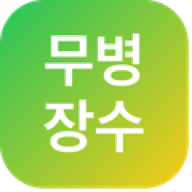
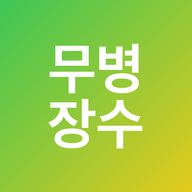
Updates

Changed region(s): [[0.2188, 0.1562, 0.75, 0.8125], [0.0, 0.0, 1.0, 1.0], [0.0, 0.0, 0.2188, 0.2188]]

diff --git a/index.html b/index.html
@@ -15,7 +15,7 @@
     <meta name="apple-mobile-web-app-capable" content="yes" />
     <meta name="apple-mobile-web-app-status-bar-style" content="default" />
     <meta name="apple-mobile-web-app-title" content="NutriTime" />
-    <link rel="apple-touch-icon" href="/NutriTime/icons/icon-192x192.png" />
+    <link rel="apple-touch-icon" href="/NutriTime/icons/icon-180x180.png" />
     <script type="module" crossorigin src="/NutriTime/assets/index-DFuotA1x.js"></script>
     <link rel="stylesheet" crossorigin href="/NutriTime/assets/index-DCFsiQqk.css">
   </head>